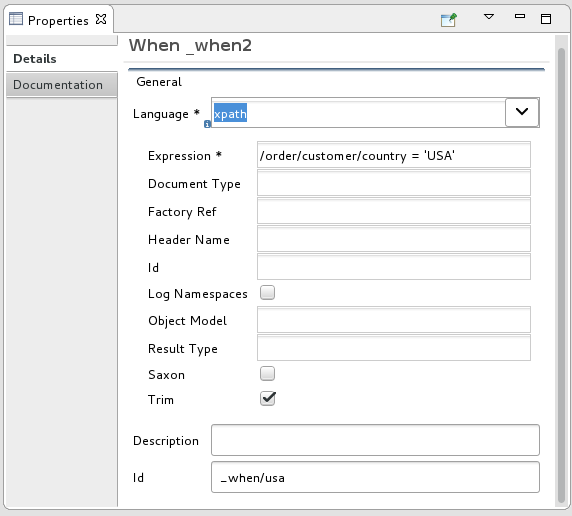
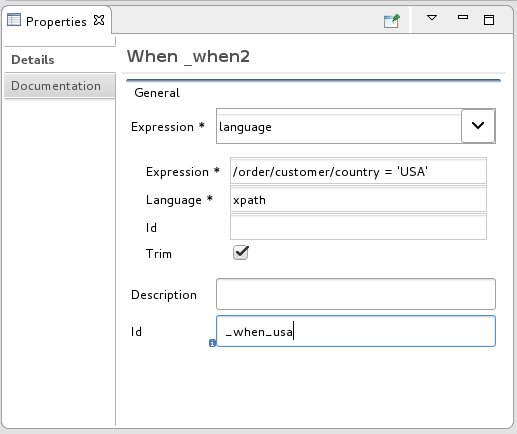
mf-FUSEDOC-2590-3 help plugin tutorial fixes

Changed region(s): [[0.0, 0.0, 1.0, 0.9885], [0.2476, 0.7189, 0.3404, 0.7788], [0.2476, 0.659, 0.4023, 0.6889]]

diff --git a/core/plugins/org.fusesource.ide.help/RiderTutorialCreate.html b/core/plugins/org.fusesource.ide.help/RiderTutorialCreate.html
@@ -1,10 +1,10 @@
 <html><head>
       <meta http-equiv="Content-Type" content="text/html; charset=ISO-8859-1">
    <title>Defining a Route</title><link rel="stylesheet" type="text/css" href="eclipse_book.css"><meta name="generator" content="DocBook XSL Stylesheets V1.77.1"><link rel="home" href="index.html" title="Red Hat Fuse Tooling"><link rel="up" href="RiderEclipseHelp.html" title="Part&nbsp;I.&nbsp;Tooling Tutorials"><link rel="prev" href="RiderTutorialSetup.html" title="Setting up your environment"><link rel="next" href="RiderTutorialRun.html" title="Running a Route"></head><body bgcolor="white" text="black" link="#0000FF" vlink="#840084" alink="#0000FF"><div class="chapter"><div class="titlepage"><div><div><h2 class="title"><a name="RiderTutorialCreate"></a>Defining a Route</h2></div></div></div><p>This tutorial walks you through adding endpoints to a route. Endpoints define the source and sink for messages traveling through the route.
-For your <code class="literal">ZooOrderApp</code> project, the starting (source) endpoint is the folder containing the XML message files. The sink (finishing) endpoint is another folder that you specify in your project.</p><div class="simplesect"><div class="titlepage"><div><div><h2 class="title" style="clear: both"><a name="_goals_2"></a>Goals</h2></div></div></div><p>In this tutorial you complete the following tasks:</p><div class="itemizedlist"><ul class="itemizedlist" style="list-style-type: disc; "><li class="listitem">Add source and sink endpoints to the route</li><li class="listitem">Configure the endpoints</li><li class="listitem">Connect the endpoints</li></ul></div></div><div class="simplesect"><div class="titlepage"><div><div><h2 class="title" style="clear: both"><a name="_before_you_begin"></a>Before you begin</h2></div></div></div><p>Before you start this tutorial:</p><div class="orderedlist"><ol class="orderedlist" type="1"><li class="listitem">You must set up your workspace environment, as described in the <a class="xref" href="RiderTutorialSetup.html" title="Setting up your environment"><i>Setting up your environment</i></a> tutorial.</li><li class="listitem">In Developer Studio, open your <code class="literal">ZooOrderApp</code> project&#8217;s <code class="literal">/src/main/resources/OSGI-INF/blueprint/blueprint.xml</code> file in the <span class="strong"><strong>Editor</strong></span> view.</li><li class="listitem">If needed, click the <span class="strong"><strong>Design</strong></span> tab at the bottom of the <span class="strong"><strong>Editor</strong></span> view to see the graphic display of the initial route, labeled <code class="literal">Route_route1</code>.</li></ol></div></div><div class="simplesect"><div class="titlepage"><div><div><h2 class="title" style="clear: both"><a name="sourceEndpoint"></a>Adding and configuring the source endpoint</h2></div></div></div><p>Follow these steps to add and configure the <code class="literal">src/data</code> folder that contains the test XML messages as the route&#8217;s source endpoint:</p><div class="orderedlist"><ol class="orderedlist" type="1"><li class="listitem"><p class="simpara">Drag a <span class="strong"><strong>File</strong></span> component (
-<span class="inlinemediaobject"><img src="images/file.png" alt="File icon"></span>) from the <span class="strong"><strong>Palette</strong></span>'s
-<span class="strong"><strong>Components</strong></span> drawer to the canvas, and drop it in the
-<code class="literal">Route_route1</code> container node.</p><p class="simpara">The <span class="strong"><strong>File</strong></span> component changes to a <code class="literal">From _from1</code> node
+For your <code class="literal">ZooOrderApp</code> project, the starting (source) endpoint is the folder containing the XML message files. The sink (finishing) endpoint is another folder that you specify in your project.</p><div class="simplesect"><div class="titlepage"><div><div><h2 class="title" style="clear: both"><a name="_goals_2"></a>Goals</h2></div></div></div><p>In this tutorial you complete the following tasks:</p><div class="itemizedlist"><ul class="itemizedlist" style="list-style-type: disc; "><li class="listitem">Add source and sink endpoints to the route</li><li class="listitem">Configure the endpoints</li><li class="listitem">Connect the endpoints</li></ul></div></div><div class="simplesect"><div class="titlepage"><div><div><h2 class="title" style="clear: both"><a name="_before_you_begin"></a>Before you begin</h2></div></div></div><p>Before you start this tutorial:</p><div class="orderedlist"><ol class="orderedlist" type="1"><li class="listitem">You must set up your workspace environment, as described in the <a class="xref" href="RiderTutorialSetup.html" title="Setting up your environment"><i>Setting up your environment</i></a> tutorial.</li><li class="listitem">In Developer Studio, open your <code class="literal">ZooOrderApp</code> project&#8217;s <code class="literal">/src/main/resources/OSGI-INF/blueprint/blueprint.xml</code> file in the <span class="strong"><strong>Editor</strong></span> view.</li><li class="listitem">If needed, click the <span class="strong"><strong>Design</strong></span> tab at the bottom of the <span class="strong"><strong>Editor</strong></span> view to see the graphic display of the initial route, labeled <code class="literal">Route_route1</code>.</li></ol></div></div><div class="simplesect"><div class="titlepage"><div><div><h2 class="title" style="clear: both"><a name="sourceEndpoint"></a>Adding and configuring the source endpoint</h2></div></div></div><p>Follow these steps to add and configure the <code class="literal">src/data</code> folder that contains the test XML messages as the route&#8217;s source endpoint:</p><div class="orderedlist"><ol class="orderedlist" type="1"><li class="listitem"><p class="simpara">Click the <span class="strong"><strong>File</strong></span> component (
+<span class="inlinemediaobject"><img src="images/file.png" alt="File icon"></span>) in the <span class="strong"><strong>Palette</strong></span>'s
+<span class="strong"><strong>Components</strong></span> drawer and then, in the Design canvas, click the
+<code class="literal">Route_route1</code> container.</p><p class="simpara">The <span class="strong"><strong>File</strong></span> component changes to a <code class="literal">From _from1</code> node
 inside the <code class="literal">Route_route1</code> container node.</p></li><li class="listitem"><p class="simpara">On the canvas, select the <code class="literal">From _from1</code> node.</p><p class="simpara">The <span class="strong"><strong>Properties</strong></span> view, located below the canvas, displays
 the node&#8217;s property fields for editing.</p></li><li class="listitem"><p class="simpara">To specify the source directory for the message files, in the <span class="strong"><strong>Properties</strong></span> view, click the
 <span class="strong"><strong>Advanced</strong></span> tab:</p><div class="informalfigure"><div class="mediaobject"><img src="./images/FileSysCompProps1Tut.png" alt="FileSysCompProps1Tut"></div></div></li><li class="listitem"><p class="simpara">In the <span class="strong"><strong>Directory Name</strong></span> field, enter
@@ -17,9 +17,7 @@ consumed only once.</p></li><li class="listitem"><p class="simpara">Select the <
 <span class="strong"><strong>Details</strong></span> page.</p><p class="simpara">The tooling automatically populates the <span class="strong"><strong>Uri</strong></span> field with
 the <span class="strong"><strong>Directory Name</strong></span> and <span class="strong"><strong>Noop</strong></span> properties
 you configured on the <span class="strong"><strong>Advanced</strong></span> tab. It also populates the
-<span class="strong"><strong>Id</strong></span> field with an autogenerated ID (<code class="literal">_from1</code>):</p><div class="informalfigure"><div class="mediaobject"><img src="images/FileSystemCompPropsTut2.png" alt="FileSystemCompPropsTut2"></div></div><div class="note" style="margin-left: 0.5in; margin-right: 0.5in;"><table border="0" summary="Note"><tr><td rowspan="2" align="center" valign="top" width="25"><img alt="[Note]" src="imagesdb/note.png"></td><th align="left">Note</th></tr><tr><td align="left" valign="top"><p>The tooling prefixes autogenerated ID values with an underscore (_). You can optionally change the ID value. The undersource prefix is not a requirement.</p></td></tr></table></div><p class="simpara">Leave the autogenerated <span class="strong"><strong>Id</strong></span> as is.</p></li><li class="listitem">Select <span class="strong"><strong>File</strong></span> &#8594; <span class="strong"><strong>Save</strong></span> to save the route.</li></ol></div></div><div class="simplesect"><div class="titlepage"><div><div><h2 class="title" style="clear: both"><a name="sinkEndpoint"></a>Adding and configuring the sink endpoint</h2></div></div></div><p>To add and configure the route&#8217;s sink (target) endpoint:</p><div class="orderedlist"><ol class="orderedlist" type="1"><li class="listitem"><p class="simpara">Drag another <span class="strong"><strong>File</strong></span> component from the
-<span class="strong"><strong>Palette</strong></span>'s <span class="strong"><strong>Components</strong></span> drawer and
-drop it in the <code class="literal">Route_route1</code> container node.</p><p class="simpara">The <span class="strong"><strong>File</strong></span> component changes to a <code class="literal">To_to1</code> node
+<span class="strong"><strong>Id</strong></span> field with an autogenerated ID (<code class="literal">_from1</code>):</p><div class="informalfigure"><div class="mediaobject"><img src="images/FileSystemCompPropsTut2.png" alt="FileSystemCompPropsTut2"></div></div><div class="note" style="margin-left: 0.5in; margin-right: 0.5in;"><table border="0" summary="Note"><tr><td rowspan="2" align="center" valign="top" width="25"><img alt="[Note]" src="imagesdb/note.png"></td><th align="left">Note</th></tr><tr><td align="left" valign="top"><p>The tooling prefixes autogenerated ID values with an underscore (_). You can optionally change the ID value. The undersource prefix is not a requirement.</p></td></tr></table></div><p class="simpara">Leave the autogenerated <span class="strong"><strong>Id</strong></span> as is.</p></li><li class="listitem">Select <span class="strong"><strong>File</strong></span> &#8594; <span class="strong"><strong>Save</strong></span> to save the route.</li></ol></div></div><div class="simplesect"><div class="titlepage"><div><div><h2 class="title" style="clear: both"><a name="sinkEndpoint"></a>Adding and configuring the sink endpoint</h2></div></div></div><p>To add and configure the route&#8217;s sink (target) endpoint:</p><div class="orderedlist"><ol class="orderedlist" type="1"><li class="listitem">In the <span class="strong"><strong>Palette</strong></span>'s <span class="strong"><strong>Components</strong></span> drawer, click the <span class="strong"><strong>File</strong></span> component.</li><li class="listitem"><p class="simpara">In the Design canvas, click the <code class="literal">Route_route1</code> container node to add the <span class="strong"><strong>File</strong></span> component to it.</p><p class="simpara">The <span class="strong"><strong>File</strong></span> component changes to a <code class="literal">To_to1</code> node
 inside the <code class="literal">Route_route1</code> container node.</p></li><li class="listitem"><p class="simpara">On the canvas, select the <code class="literal">To_to1</code> node.</p><p class="simpara">The <span class="strong"><strong>Properties</strong></span> view, located below the canvas, displays
 the node&#8217;s property fields for editing.</p></li><li class="listitem"><p class="simpara">On the <span class="strong"><strong>Details</strong></span> tab:</p><div class="orderedlist"><ol class="orderedlist" type="a"><li class="listitem">In the <span class="strong"><strong>Uri</strong></span> field, type <code class="literal"><span class="strong"><strong>file:target/messages/received</strong></span></code>.</li><li class="listitem"><p class="simpara">In the <span class="strong"><strong>Id</strong></span> field, type <code class="literal"><span class="strong"><strong>_Received</strong></span></code>.</p><div class="informalfigure"><div class="mediaobject"><img src="images/FilesysTargetCompPropsTut.png" alt="FilesysTargetCompPropsTut"></div></div><div class="note" style="margin-left: 0.5in; margin-right: 0.5in;"><table border="0" summary="Note"><tr><td rowspan="2" align="center" valign="top" width="25"><img alt="[Note]" src="imagesdb/note.png"></td><th align="left">Note</th></tr><tr><td align="left" valign="top"><p>The tooling will create the <code class="literal">target/messages/received</code> folder at
 runtime.</p></td></tr></table></div></li></ol></div></li><li class="listitem"><p class="simpara">In the <code class="literal">Route_route1</code> container, select the <span class="strong"><strong>From

diff --git a/core/plugins/org.fusesource.ide.help/RiderTutorialAddRoute.html b/core/plugins/org.fusesource.ide.help/RiderTutorialAddRoute.html
@@ -42,7 +42,7 @@ the <code class="literal">Choice_choice2</code> node, then release it:</p><div c
 the <span class="strong"><strong>Language</strong></span> drop-down
 menu.</li><li class="listitem">Enter <code class="literal"><span class="strong"><strong>/order/customer/country = 'USA'</strong></span></code> in the
 <span class="strong"><strong>Expression</strong></span>
-field.</li><li class="listitem">Leave <span class="strong"><strong>Trim</strong></span> enabled.</li><li class="listitem"><p class="simpara">Enter <code class="literal"><span class="strong"><strong>_when/usa</strong></span></code> in the <span class="strong"><strong>Id</strong></span> field.</p><div class="informalfigure"><div class="mediaobject"><img src="./images/tutCBRrte2WhenUSAprops.png" alt="tutCBRrte2WhenUSAprops"></div></div><div class="note" style="margin-left: 0.5in; margin-right: 0.5in;"><table border="0" summary="Note"><tr><td rowspan="2" align="center" valign="top" width="25"><img alt="[Note]" src="imagesdb/note.png"></td><th align="left">Note</th></tr><tr><td align="left" valign="top"><p>Once you select the expression <span class="strong"><strong>Language</strong></span>, the
+field.</li><li class="listitem">Leave <span class="strong"><strong>Trim</strong></span> enabled.</li><li class="listitem"><p class="simpara">Enter <code class="literal"><span class="strong"><strong>_when_usa</strong></span></code> in the <span class="strong"><strong>Id</strong></span> field.</p><div class="informalfigure"><div class="mediaobject"><img src="./images/tutCBRrte2WhenUSAprops.png" alt="tutCBRrte2WhenUSAprops"></div></div><div class="note" style="margin-left: 0.5in; margin-right: 0.5in;"><table border="0" summary="Note"><tr><td rowspan="2" align="center" valign="top" width="25"><img alt="[Note]" src="imagesdb/note.png"></td><th align="left">Note</th></tr><tr><td align="left" valign="top"><p>Once you select the expression <span class="strong"><strong>Language</strong></span>, the
 <span class="strong"><strong>Properties</strong></span> view displays its properties in an
 indented list directly below the <span class="strong"><strong>Language</strong></span> field. The
 <span class="strong"><strong>Id</strong></span> property in this list sets the ID of the
@@ -51,19 +51,19 @@ expression. The <span class="strong"><strong>Id</strong></span> property followi
 <code class="literal">When</code> node.</p></td></tr></table></div></li></ul></div></li><li class="listitem"><p class="simpara">In the <span class="strong"><strong>Palette</strong></span>, open the <span class="strong"><strong>Components</strong></span>
 drawer and drag a <span class="strong"><strong>File</strong></span> component (
 <span class="inlinemediaobject"><img src="images/file.png" alt="File icon"></span>) to the canvas and drop it in the
-<code class="literal">When_when/usa</code> container.</p><p class="simpara">The <code class="literal">When_when/usa</code> container expands to accommodate the
+<code class="literal">When_when_usa</code> container.</p><p class="simpara">The <code class="literal">When_when_usa</code> container expands to accommodate the
 <code class="literal">To_to1</code> node.</p></li><li class="listitem"><p class="simpara">In the <span class="strong"><strong>Properties</strong></span> view:</p><div class="informalfigure"><div class="mediaobject"><img src="./images/tutRte2EndptUSA.png" alt="tutRte2EndptUSA"></div></div><div class="itemizedlist"><ul class="itemizedlist" style="list-style-type: disc; "><li class="listitem">Replace <span class="emphasis"><em>directoryName</em></span> with
 <code class="literal"><span class="strong"><strong>target/messages/validOrders/USA</strong></span></code> in
 the <span class="strong"><strong>Uri</strong></span> field.</li><li class="listitem">Enter <code class="literal"><span class="strong"><strong>_US</strong></span></code> in the <span class="strong"><strong>Id</strong></span>
 field.</li></ul></div></li><li class="listitem">Save the file.</li></ol></div><p>To set a message header and add a log component:</p><div class="orderedlist"><ol class="orderedlist" type="1"><li class="listitem"><p class="simpara">In the <span class="strong"><strong>Palette</strong></span>, open the
 <span class="strong"><strong>Transformation</strong></span> drawer and drag the <span class="strong"><strong>Set
 Header</strong></span> pattern to the canvas and drop on the
-<code class="literal">When_when/usa</code> node:</p><div class="informalfigure"><div class="mediaobject"><img src="./images/tutCBRrte2SetHeadUSAadd.png" alt="tutCBRrte2SetHeadUSAadd"></div></div><p class="simpara">The <code class="literal">When_when/usa</code> container expands to accommodate the
+<code class="literal">When_when_usa</code> node:</p><div class="informalfigure"><div class="mediaobject"><img src="./images/tutCBRrte2SetHeadUSAadd.png" alt="tutCBRrte2SetHeadUSAadd"></div></div><p class="simpara">The <code class="literal">When_when_usa</code> container expands to accommodate the
 <code class="literal">SetHeader_setHeader3</code> node.</p></li><li class="listitem">On the canvas, select the <code class="literal">SetHeader_setHeader3</code> node to open its
 properties in the <span class="strong"><strong>Properties</strong></span> view.</li><li class="listitem"><p class="simpara">Set the node&#8217;s properties as follows:</p><div class="itemizedlist"><ul class="itemizedlist" style="list-style-type: disc; "><li class="listitem">From the <span class="strong"><strong>Language</strong></span> drop-down menu, select <span class="strong"><strong>constant</strong></span>.</li><li class="listitem">In the <span class="strong"><strong>Expression</strong></span> field, type: <code class="literal"><span class="strong"><strong>USA</strong></span></code></li><li class="listitem">Leave <span class="strong"><strong>Trim</strong></span> enabled.</li><li class="listitem">In the <span class="strong"><strong>Header Name</strong></span> field, type: <code class="literal"><span class="strong"><strong>Destination</strong></span></code></li><li class="listitem"><p class="simpara">In the <span class="strong"><strong>Id</strong></span> field, type: <code class="literal"><span class="strong"><strong>_setHead_usa</strong></span></code></p><div class="informalfigure"><div class="mediaobject"><img src="./images/tutCRErte2SetHeadusaProps.png" alt="tutCRErte2SetHeadusaProps"></div></div></li></ul></div></li><li class="listitem"><p class="simpara">In the <span class="strong"><strong>Palette</strong></span>, open the <span class="strong"><strong>Components</strong></span>
 drawer and drag a <span class="strong"><strong>Log</strong></span> component (
 <span class="inlinemediaobject"><img src="images/log.png" alt="Log icon"></span>) to the canvas and drop it in the
-<code class="literal">When_when/usa</code> container.</p><p class="simpara">The <code class="literal">When_when/usa</code> container expands to accommodate the
+<code class="literal">When_when_usa</code> container.</p><p class="simpara">The <code class="literal">When_when_usa</code> container expands to accommodate the
 <code class="literal">Log_log3</code> node.</p></li><li class="listitem"><p class="simpara">On the canvas, select the <code class="literal">SetHeader_setHead_usa</code> node and drag its
 connector arrow over the <code class="literal">Log_log3</code> node, then release
 it:</p><div class="informalfigure"><div class="mediaobject"><img src="./images/tutCBRrte2Log3Added.png" alt="tutCBRrte2Log3Added"></div></div></li><li class="listitem"><p class="simpara">On the canvas, select the <code class="literal">Log_log3</code> node to open its properties in the
@@ -71,8 +71,7 @@ it:</p><div class="informalfigure"><div class="mediaobject"><img src="./images/t
 customer</strong></span></code> in the <span class="strong"><strong>Message</strong></span>
 field.</li><li class="listitem">Enter <code class="literal"><span class="strong"><strong>_usa</strong></span></code> in the <span class="strong"><strong>Id</strong></span>
 field.</li><li class="listitem">Leave <span class="strong"><strong>Logging Level</strong></span>
-as is.</li></ul></div></li><li class="listitem"><p class="simpara">On the canvas, select the <code class="literal">Log_usa</code> node and drag its connector arrow over
-the <code class="literal">To_to1</code> node, then release it:</p><div class="informalfigure"><div class="mediaobject"><img src="./images/tutCBRrte2USAtermFile.png" alt="tutCBRrte2USAtermFile"></div></div></li><li class="listitem"><p class="simpara">Save the file.</p><p class="simpara">The USA branch of <code class="literal">Route_route2</code> should look like
+as is.</li></ul></div></li><li class="listitem"><p class="simpara">Click the <code class="literal">File</code> component in the <span class="strong"><strong>Palette</strong></span> and then click on the <code class="literal">Log_usa</code> node:</p><div class="informalfigure"><div class="mediaobject"><img src="./images/tutCBRrte2USAtermFile.png" alt="tutCBRrte2USAtermFile"></div></div></li><li class="listitem"><p class="simpara">Save the file.</p><p class="simpara">The USA branch of <code class="literal">Route_route2</code> should look like
 this:</p><div class="informalfigure"><div class="mediaobject"><img src="./images/tutUSAbranchRte2.png" alt="tutUSAbranchRte2"></div></div></li></ol></div></div><div class="simplesect"><div class="titlepage"><div><div><h2 class="title" style="clear: both"><a name="_building_and_configuring_the_germany_branch_of_the_second_route"></a>Building and configuring the Germany branch of the second route</h2></div></div></div><p>With <code class="literal">Route_route2</code> displayed on the canvas:</p><div class="orderedlist"><ol class="orderedlist" type="1"><li class="listitem"><p class="simpara">In the <span class="strong"><strong>Palette</strong></span>, open the <span class="strong"><strong>Routing</strong></span>
 drawer and drag an <span class="strong"><strong>Otherwise</strong></span> pattern (
 <span class="inlinemediaobject"><img src="images/endpointdef.png" alt="Otherwise icon"></span>) to the canvas and drop it in the
@@ -143,7 +142,7 @@ shown in <a class="xref" href="RiderTutorialAddRoute.html#CBREx011" title="Examp
         &lt;route id="_route2"&gt;
             &lt;from id="_direct:OrderFulfillment" uri="direct:OrderFulfillment"/&gt;
             &lt;choice id="_choice2"&gt;
-                &lt;when id="_when/usa"&gt;
+                &lt;when id="_when_usa"&gt;
                     &lt;xpath&gt;/order/customer/country = 'USA'&lt;/xpath&gt;
                     &lt;setHeader headerName="Destination" id="_setHead_usa"&gt;
                         &lt;constant&gt;USA&lt;/constant&gt;

diff --git a/core/plugins/org.fusesource.ide.help/RiderTutorialCBR.html b/core/plugins/org.fusesource.ide.help/RiderTutorialCBR.html
@@ -6,9 +6,8 @@ the trash can icon to delete it.</li><li class="listitem"><p class="simpara">In 
 drawer and drag a <span class="strong"><strong>Choice</strong></span> (
 <span class="inlinemediaobject"><img src="images/choice.png" alt="Choice icon"></span>) pattern to the canvas and drop it in the
 <code class="literal">Route_route1</code> container.</p><p class="simpara">The <code class="literal">Route_route1</code> container expands to accommodate the
-<code class="literal">Choice_choice1</code> node. The error icon indicates that the <code class="literal">Choice_choice1</code> node requires a child node, which you add next.</p></li><li class="listitem"><p class="simpara">From the <span class="strong"><strong>Routing</strong></span> drawer, drag a <span class="strong"><strong>When</strong></span> (
-<span class="inlinemediaobject"><img src="images/endpointdef.png" alt="When icon"></span>) pattern to the canvas and drop it on the
-<code class="literal">Choice_choice1</code> node:</p><div class="informalfigure"><div class="mediaobject"><img src="./images/tutCBRaddWhen1.png" alt="tutCBRaddWhen1"></div></div><p class="simpara">The <code class="literal">Choice_choice1</code> container expands to accommodate the
+<code class="literal">Choice_choice1</code> node. The error icon indicates that the <code class="literal">Choice_choice1</code> node requires a child node, which you add next.</p></li><li class="listitem"><p class="simpara">From the <span class="strong"><strong>Routing</strong></span> drawer, click the <span class="strong"><strong>When</strong></span> (
+<span class="inlinemediaobject"><img src="images/endpointdef.png" alt="When icon"></span>) pattern and then click the <code class="literal">Choice_choice1</code> node in the Design canvas:</p><div class="informalfigure"><div class="mediaobject"><img src="./images/tutCBRaddWhen1.png" alt="tutCBRaddWhen1"></div></div><p class="simpara">The <code class="literal">Choice_choice1</code> container expands to accommodate the
 <code class="literal">When_when1</code> node. The
 <span class="inlinemediaobject"><img src="./images/warning_obj.gif" alt="warning icon"></span> decorating the <code class="literal">When_when1</code> node
 indicates that one or more required property values must be set.</p><div class="note" style="margin-left: 0.5in; margin-right: 0.5in;"><table border="0" summary="Note"><tr><td rowspan="2" align="center" valign="top" width="25"><img alt="[Note]" src="imagesdb/note.png"></td><th align="left">Note</th></tr><tr><td align="left" valign="top"><p>The tooling prevents you from dropping a pattern onto an invalid drop point in a Route
@@ -29,14 +28,14 @@ drawer and select a <span class="strong"><strong>Log</strong></span> (
 <span class="inlinemediaobject"><img src="images/log.png" alt="Log icon"></span>) component.</li><li class="listitem"><p class="simpara">Drag the <span class="strong"><strong>Log</strong></span> component to the canvas and drop it on
 the <code class="literal">When_when1</code> node.</p><p class="simpara">The <code class="literal">When_when1</code> container expands to accommodate the
 <code class="literal">Log_log1</code> node:</p><div class="informalfigure"><div class="mediaobject"><img src="./images/tutCBRlog1Added.png" alt="tutCBRlog1Added"></div></div></li><li class="listitem">On the canvas, select the <code class="literal">Log_log1</code> node to open its properties in the
-<span class="strong"><strong>Properties</strong></span> view.</li><li class="listitem"><p class="simpara">In the <span class="strong"><strong>Message</strong></span> field, type: <span class="strong"><strong><code class="literal">The quantity requested exceeds the maximum allowed - contact customer.</code></strong></span></p><div class="informalfigure"><div class="mediaobject"><img src="./images/tutCBRlog1Properties.png" alt="tutCBRlog1Properties"></div></div></li></ol></div><p>Leave each of the remaining properties as they are.</p><p>+</p><div class="note" style="margin-left: 0.5in; margin-right: 0.5in;"><table border="0" summary="Note"><tr><td rowspan="2" align="center" valign="top" width="25"><img alt="[Note]" src="imagesdb/note.png"></td><th align="left">Note</th></tr><tr><td align="left" valign="top"><p>The tooling auto-generates a log node <span class="strong"><strong>id</strong></span> value. In the <span class="strong"><strong>Fuse Integration</strong></span> perspective&#8217;s <span class="strong"><strong>Messages</strong></span>
+<span class="strong"><strong>Properties</strong></span> view.</li><li class="listitem"><p class="simpara">In the <span class="strong"><strong>Message</strong></span> field, type: <span class="strong"><strong><code class="literal">The quantity requested exceeds the maximum allowed - contact customer.</code></strong></span></p><div class="informalfigure"><div class="mediaobject"><img src="./images/tutCBRlog1Properties.png" alt="tutCBRlog1Properties"></div></div><p class="simpara">Leave each of the remaining properties as they are.</p><div class="note" style="margin-left: 0.5in; margin-right: 0.5in;"><table border="0" summary="Note"><tr><td rowspan="2" align="center" valign="top" width="25"><img alt="[Note]" src="imagesdb/note.png"></td><th align="left">Note</th></tr><tr><td align="left" valign="top"><p>The tooling auto-generates a log node <span class="strong"><strong>id</strong></span> value. In the <span class="strong"><strong>Fuse Integration</strong></span> perspective&#8217;s <span class="strong"><strong>Messages</strong></span>
 view, the tooling inserts the contents of the log node&#8217;s
 <span class="strong"><strong>Id</strong></span> field in the <span class="strong"><strong>Trace Node Id</strong></span> column
 for message instances, when tracing is enabled on the route
 (see the <a class="xref" href="RiderTutorialTrace.html" title="Tracing a message through a route"><i>Tracing a message through a route</i></a> tutorial). In the
 <span class="strong"><strong>Console</strong></span>, it adds the contents of the log node&#8217;s
 <span class="strong"><strong>Message</strong></span> field to the log data whenever the route
-runs.</p></td></tr></table></div><div class="orderedlist"><ol class="orderedlist" type="1"><li class="listitem">On the menu bar, click <span class="strong"><strong>File</strong></span> &#8594; <span class="strong"><strong>Save</strong></span> to save the routing context file.</li></ol></div></div><div class="simplesect"><div class="titlepage"><div><div><h2 class="title" style="clear: both"><a name="_adding_and_configuring_message_headers"></a>Adding and configuring message headers</h2></div></div></div><p>A message header contains information to process a message.</p><p>To add and configure message headers:</p><div class="orderedlist"><ol class="orderedlist" type="1"><li class="listitem">In the <span class="strong"><strong>Palette</strong></span>, open the
+runs.</p></td></tr></table></div></li><li class="listitem">On the menu bar, click <span class="strong"><strong>File</strong></span> &#8594; <span class="strong"><strong>Save</strong></span> to save the routing context file.</li></ol></div></div><div class="simplesect"><div class="titlepage"><div><div><h2 class="title" style="clear: both"><a name="_adding_and_configuring_message_headers"></a>Adding and configuring message headers</h2></div></div></div><p>A message header contains information to process a message.</p><p>To add and configure message headers:</p><div class="orderedlist"><ol class="orderedlist" type="1"><li class="listitem">In the <span class="strong"><strong>Palette</strong></span>, open the
 <span class="strong"><strong>Transformation</strong></span> drawer and select a <span class="strong"><strong>Set
 Header</strong></span> (
 <span class="inlinemediaobject"><img src="images/setHeader.png" alt="Set Header icon"></span>) pattern.</li><li class="listitem"><p class="simpara">Drag the <span class="strong"><strong>Set Header</strong></span> pattern to the canvas and drop it in
@@ -135,4 +134,4 @@ message files that contain valid orders:
 <code class="literal">message2.xml</code>,
 <code class="literal">message4.xml</code> ,
 <code class="literal">message5.xml</code> and
-<code class="literal">message6.xml</code>.</p><p class="simpara">In these messages, the value of the <code class="literal">quantity</code> element is less than or equal to 10.</p><div class="note" style="margin-left: 0.5in; margin-right: 0.5in;"><table border="0" summary="Note"><tr><td rowspan="2" align="center" valign="top" width="25"><img alt="[Note]" src="imagesdb/note.png"></td><th align="left">Note</th></tr><tr><td align="left" valign="top"><p>To view message content, double-click each message to open it in the route editor&#8217;s XML editor.</p></td></tr></table></div></li></ol></div></div><div class="simplesect"><div class="titlepage"><div><div><h2 class="title" style="clear: both"><a name="_next_steps_4"></a>Next steps</h2></div></div></div><p>In the next tutorial, <a class="xref" href="RiderTutorialAddRoute.html" title="Adding another route to the routing context"><i>Adding another route to the routing context</i></a>, you add a second route that further processes valid order messages.</p></div></div></body></html>
+<code class="literal">message6.xml</code>.</p><p class="simpara">In these messages, the value of the <code class="literal">quantity</code> element is less than or equal to 10.</p><div class="note" style="margin-left: 0.5in; margin-right: 0.5in;"><table border="0" summary="Note"><tr><td rowspan="2" align="center" valign="top" width="25"><img alt="[Note]" src="imagesdb/note.png"></td><th align="left">Note</th></tr><tr><td align="left" valign="top"><p>To view message content, double-click each message to open it in the route editor&#8217;s XML editor.</p></td></tr></table></div></li><li class="listitem">Stop the project.</li></ol></div></div><div class="simplesect"><div class="titlepage"><div><div><h2 class="title" style="clear: both"><a name="_next_steps_4"></a>Next steps</h2></div></div></div><p>In the next tutorial, <a class="xref" href="RiderTutorialAddRoute.html" title="Adding another route to the routing context"><i>Adding another route to the routing context</i></a>, you add a second route that further processes valid order messages.</p></div></div></body></html>

diff --git a/core/plugins/org.fusesource.ide.help/RiderTutorialDebug.html b/core/plugins/org.fusesource.ide.help/RiderTutorialDebug.html
@@ -8,10 +8,10 @@ clicking the node&#8217;s
 <span class="inlinemediaobject"><img src="./images/gray-dot.png" alt="gray icon"></span> icon or its
 <span class="inlinemediaobject"><img src="./images/delete_bp.gif" alt="delete icon"></span> icon, respectively. You can delete all set breakpoints
 by right-clicking the canvas and selecting <span class="strong"><strong>Delete all
-breakpoints</strong></span>.</p></td></tr></table></div></li><li class="listitem"><p class="simpara">Set unconditional breakpoints on the following <code class="literal">Route_Route1</code> nodes:</p><div class="itemizedlist"><ul class="itemizedlist" style="list-style-type: disc; "><li class="listitem"><code class="literal">Log_log1</code></li><li class="listitem"><code class="literal">SetHeader_setHeader1</code></li><li class="listitem"><code class="literal">To_Invalid</code></li><li class="listitem"><code class="literal">Log_log2</code></li><li class="listitem"><code class="literal">SetHeader_setHeader2</code></li><li class="listitem"><code class="literal">To_Fulfill</code></li></ul></div></li><li class="listitem">In <span class="strong"><strong>Project Explorer</strong></span>, double-click
+breakpoints</strong></span>.</p></td></tr></table></div></li><li class="listitem"><p class="simpara">Set unconditional breakpoints on the following <code class="literal">Route_Route1</code> nodes:</p><div class="itemizedlist"><ul class="itemizedlist" style="list-style-type: disc; "><li class="listitem"><code class="literal">Log_log1</code></li><li class="listitem"><code class="literal">SetHeader_setHeader1</code></li><li class="listitem"><code class="literal">To_Invalid</code></li><li class="listitem"><code class="literal">Log_log2</code></li><li class="listitem"><code class="literal">SetHeader_setHeader2</code></li><li class="listitem"><code class="literal">To_Valid</code></li></ul></div></li><li class="listitem">In <span class="strong"><strong>Project Explorer</strong></span>, double-click
 <code class="literal">Route_route2</code> under <code class="literal">src/main/resources/OSGI-INF/blueprint</code> to open
 <code class="literal">Route_route2</code> on
-the canvas.</li><li class="listitem"><p class="simpara">Set unconditional breakpoints on the following <code class="literal">Route_Route2</code> nodes:</p><div class="itemizedlist"><ul class="itemizedlist" style="list-style-type: disc; "><li class="listitem"><code class="literal">Choice_choice2</code></li><li class="listitem"><code class="literal">SetHeader_setHead_usa</code></li><li class="listitem"><code class="literal">Log_usa</code></li><li class="listitem"><code class="literal">To_US</code></li><li class="listitem"><code class="literal">SetHeader_setHead_ger</code></li><li class="listitem"><code class="literal">Log_ger</code></li><li class="listitem"><code class="literal">To_GER</code></li></ul></div></li></ol></div></div><div class="simplesect"><div class="titlepage"><div><div><h2 class="title" style="clear: both"><a name="stepThruRouteCntxt"></a>Stepping through the routing context</h2></div></div></div><p>You can step through the routing context in two ways:</p><div class="itemizedlist"><ul class="itemizedlist" style="list-style-type: disc; "><li class="listitem">Step over (
+the canvas.</li><li class="listitem"><p class="simpara">Set unconditional breakpoints on the following <code class="literal">Route_Route2</code> nodes:</p><div class="itemizedlist"><ul class="itemizedlist" style="list-style-type: disc; "><li class="listitem"><code class="literal">Choice_choice2</code></li><li class="listitem"><code class="literal">SetHeader_setHead_usa</code></li><li class="listitem"><code class="literal">Log_usa</code></li><li class="listitem"><code class="literal">To_US</code></li><li class="listitem"><code class="literal">SetHeader_setHead_ger</code></li><li class="listitem"><code class="literal">Log_ger</code></li><li class="listitem"><code class="literal">To_GER</code></li></ul></div></li><li class="listitem">Save the file.</li></ol></div></div><div class="simplesect"><div class="titlepage"><div><div><h2 class="title" style="clear: both"><a name="stepThruRouteCntxt"></a>Stepping through the routing context</h2></div></div></div><p>You can step through the routing context in two ways:</p><div class="itemizedlist"><ul class="itemizedlist" style="list-style-type: disc; "><li class="listitem">Step over (
 <span class="inlinemediaobject"><img src="images/stepover_co.png" alt="Step Over icon"></span>) - Jumps to the next node of execution in the
 routing context, regardless of breakpoints.</li><li class="listitem"><p class="simpara">Resume (
 <span class="inlinemediaobject"><img src="images/resume_co.png" alt="Resume icon"></span>) - Jumps to the next active breakpoint in the
@@ -113,8 +113,7 @@ select <span class="strong"><strong>Change Value</strong></span>:</p><div class=
 order items:</p><div class="informalfigure"><div class="mediaobject"><img src="./images/FTWatchM2R1toFfilVarChng.png" alt="FTWatchM2R1toFfilVarChng"></div></div></li><li class="listitem"><p class="simpara"><a name="varChgRestart1"></a> Click
 <span class="inlinemediaobject"><img src="images/resume_co.png" alt="Resume icon"></span> to step to the next breakpoint.</p><p class="simpara">Instead of following the branch leading to <code class="literal">To_Invalid</code>,
 <code class="literal">message3</code> now follows the branch leading
-to<code class="literal">To_Fulfill</code> and
-<code class="literal">Route_route2</code>.</p></li></ol></div></div><div class="simplesect"><div class="titlepage"><div><div><h2 class="title" style="clear: both"><a name="_narrowing_the_camel_debugger_s_focus"></a>Narrowing the Camel debugger&#8217;s focus</h2></div></div></div><p>You can temporarily narrow and then re-expand the debugger&#8217;s focus by disabling
+to <code class="literal">To_Valid</code> and <code class="literal">Route_route2</code>.</p></li></ol></div></div><div class="simplesect"><div class="titlepage"><div><div><h2 class="title" style="clear: both"><a name="_narrowing_the_camel_debugger_s_focus"></a>Narrowing the Camel debugger&#8217;s focus</h2></div></div></div><p>You can temporarily narrow and then re-expand the debugger&#8217;s focus by disabling
 and re-enabling breakpoints:</p><div class="orderedlist"><ol class="orderedlist" type="1"><li class="listitem"><a name="varChgRestart2"></a> Step <code class="literal">message4</code> through the routing context, checking the
 <span class="strong"><strong>Debug</strong></span> view, the <span class="strong"><strong>Variables</strong></span> view,
 and the <span class="strong"><strong>Console</strong></span> output at each step.</li><li class="listitem">Stop <code class="literal">message4</code> at <code class="literal">_choice1 in _route1
